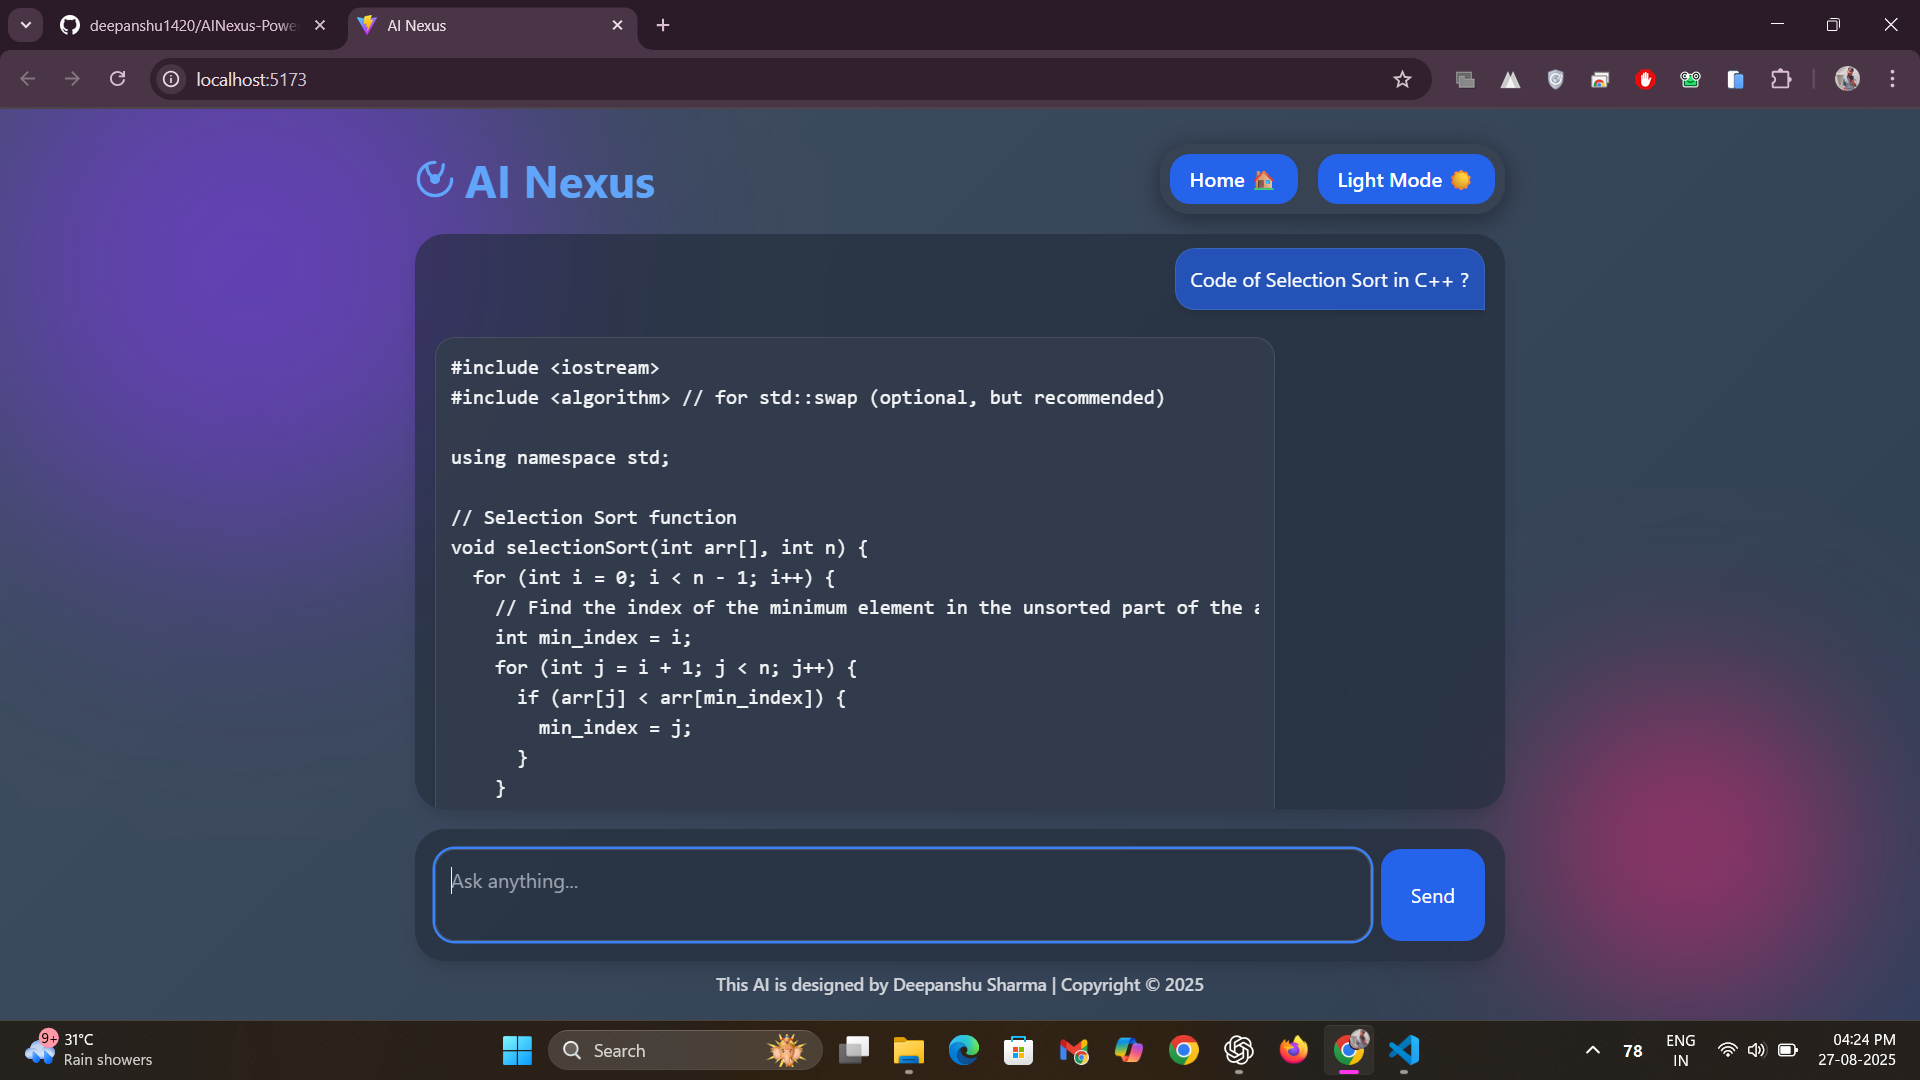
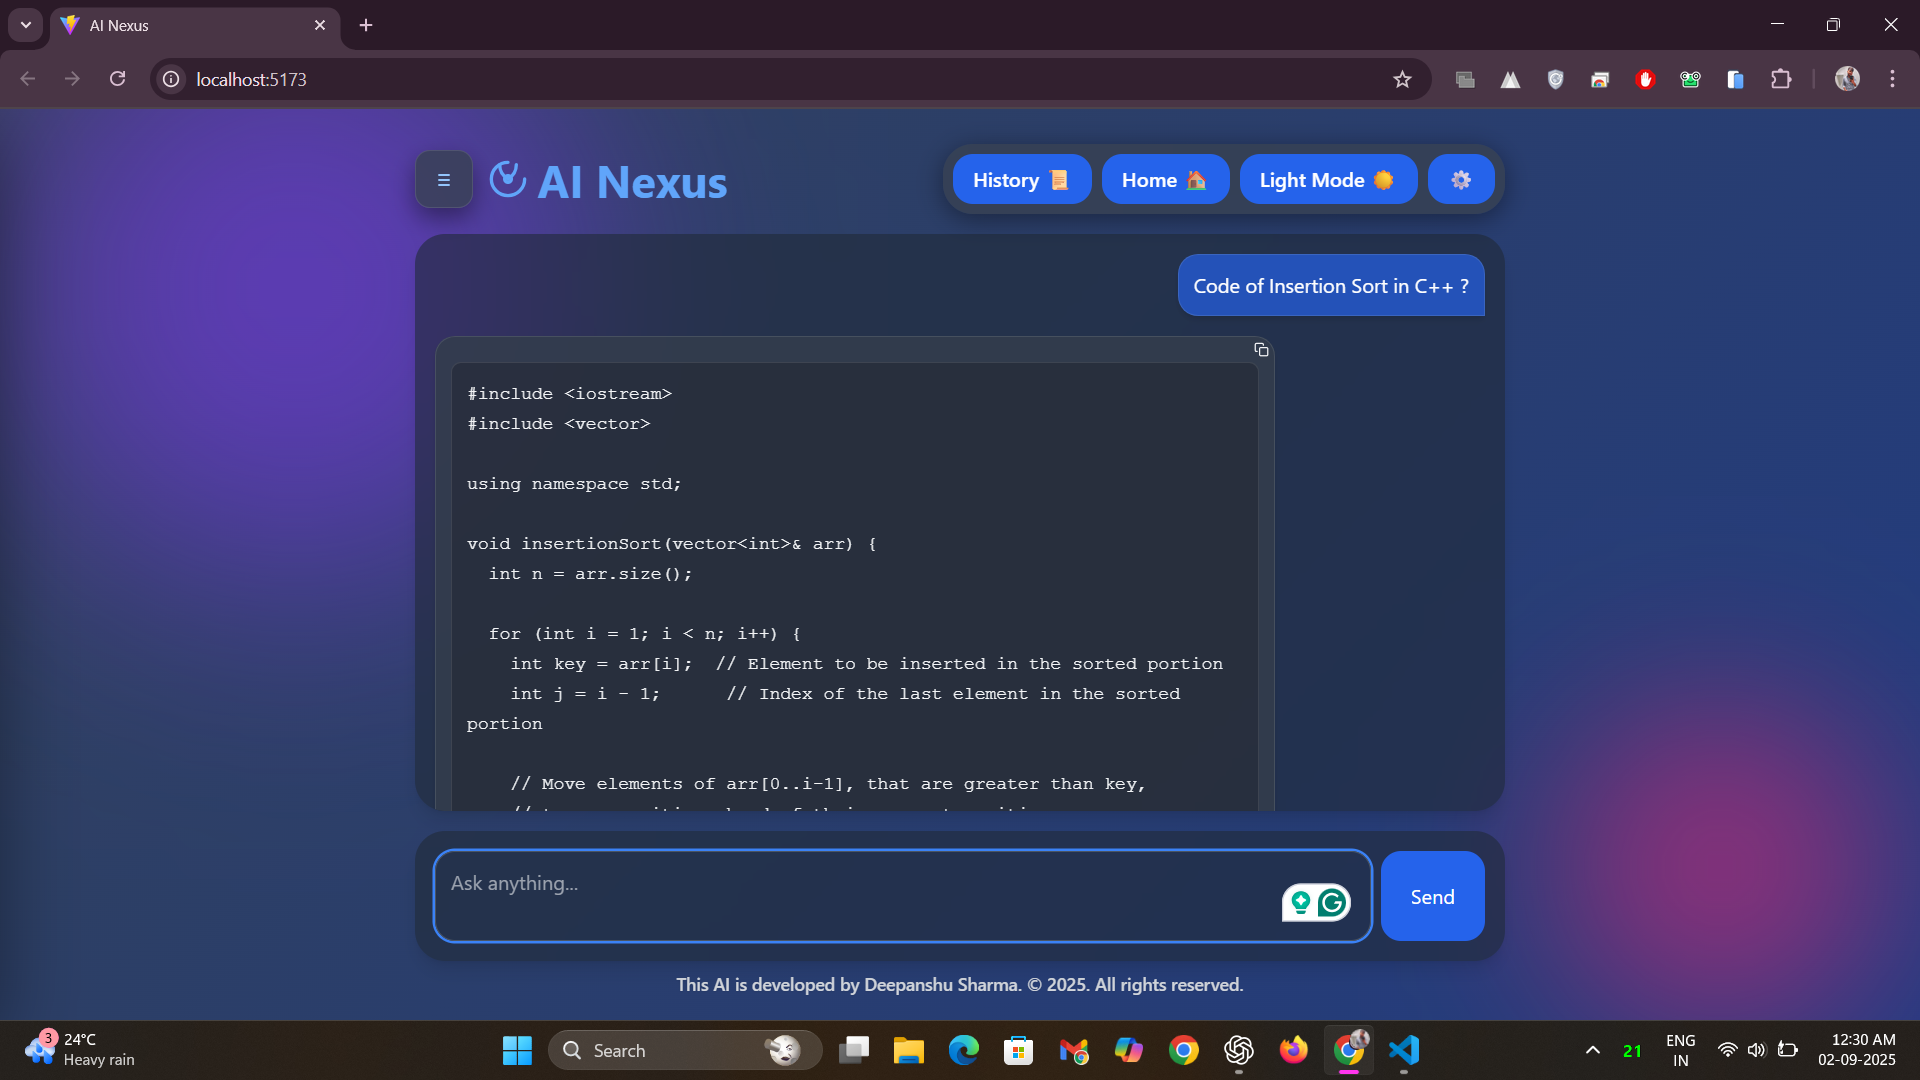
Readmefile updated!

diff --git a/README.md b/README.md
@@ -65,6 +65,18 @@ AINexus provides a responsive, interactive chat experience. Users can ask questi
 ![Code Response](./screenshots/CodeResponse.png)  
 *A coding environment where Nexus taps into Gemini’s reasoning to produce structured and executable code snippets.*
 
+### Chat History
+![Chat History](./screenshots/ChatHistory.png)  
+*Shows previous AI interactions with timestamps, making it easy to track conversation context.*
+
+### Edit and Copy Feature
+![Edit and Copy Feature](./screenshots/EditandCopyFeature.png)  
+*Allows users to edit their questions and copy AI responses directly for smoother interaction and workflow.*
+
+### Settings & Typing Speed
+![Settings Typing Speed](./screenshots/SettingsTypingSpeed.png)  
+*Allows customization of AI response speed and personalization of interaction settings.*
+
 ### Mobile View 
 ![Mobile View](./screenshots/MobileView.png)  
 *Responsive design ensures seamless AI interactions on mobile devices with adaptive layouts.*
